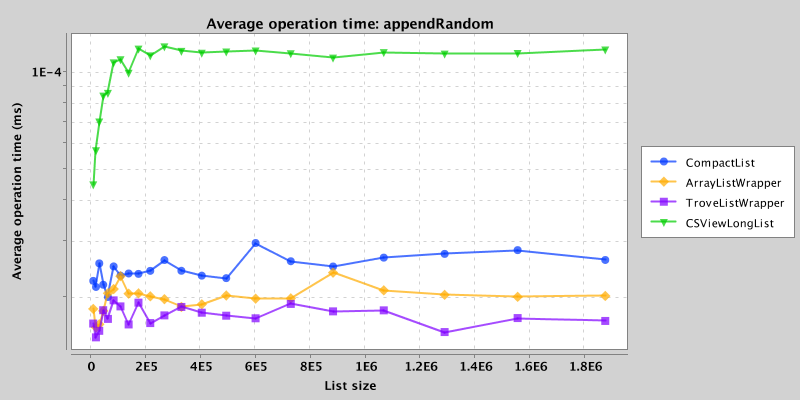
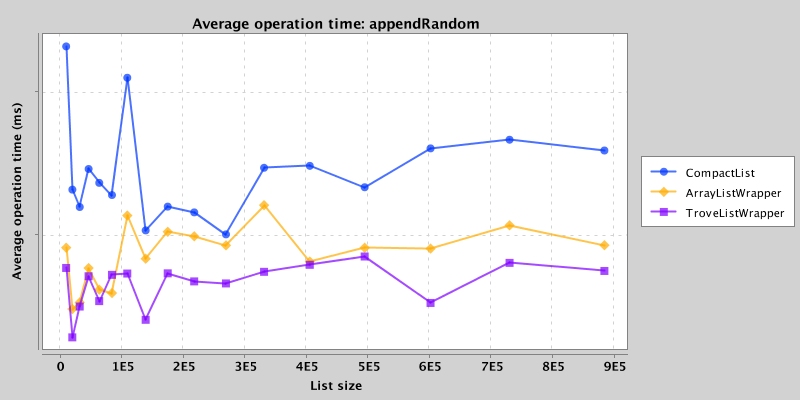
Disabled linear prediction strategy due to errors and performance

diff --git a/src/main/java/net/kothar/compactlist/internal/Node.java b/src/main/java/net/kothar/compactlist/internal/Node.java
@@ -2,21 +2,20 @@ package net.kothar.compactlist.internal;
 
 import java.io.Serializable;
 import java.util.ArrayList;
-import java.util.Arrays;
 import java.util.Collections;
 import java.util.Comparator;
 import java.util.Iterator;
 import java.util.List;
 import java.util.function.Consumer;
-import java.util.stream.Collectors;
+
+import org.slf4j.Logger;
+import org.slf4j.LoggerFactory;
 
 import net.kothar.compactlist.LongList;
 import net.kothar.compactlist.internal.compaction.CompactionEvaluator;
 import net.kothar.compactlist.internal.compaction.CompactionStrategy;
-import net.kothar.compactlist.internal.compaction.LinearPredictionCompactionStrategy;
 import net.kothar.compactlist.internal.compaction.OffsetCompactionStrategy;
 import net.kothar.compactlist.internal.compaction.StorageAnalysis;
-import net.kothar.compactlist.internal.storage.AbstractStore;
 import net.kothar.compactlist.internal.storage.ByteArrayStore;
 import net.kothar.compactlist.internal.storage.ConstantStore;
 import net.kothar.compactlist.internal.storage.IntArrayStore;
@@ -25,6 +24,8 @@ import net.kothar.compactlist.internal.storage.ShortArrayStore;
 import net.kothar.compactlist.internal.storage.Store;
 
 public class Node implements Iterable<Long>, LongList, Serializable {
+
+	private static final Logger log = LoggerFactory.getLogger(Node.class);
 
 	private static final long serialVersionUID = 3105932349913959938L;
 
@@ -43,7 +44,7 @@ public class Node implements Iterable<Long>, LongList, Serializable {
 		lastCompaction;
 
 	public Node() {
-		this(new LongArrayStore());
+		this(new ShortArrayStore(new OffsetCompactionStrategy(0)));
 	}
 
 	public Node(Store elements) {
@@ -128,6 +129,7 @@ public class Node implements Iterable<Long>, LongList, Serializable {
 			lastWrite = ++operation;
 
 			// Replace with non-compact representation if out of range
+			// TODO perform storage analysis
 			if (!elements.inRange(index, element, index < size)) {
 				LongArrayStore newElements = new LongArrayStore(size + 1);
 				newElements.copy(elements, 0, 0, index);
@@ -192,12 +194,15 @@ public class Node implements Iterable<Long>, LongList, Serializable {
 	}
 
 	protected void split(int pivot) {
+
+		log.trace("split {}: {}", pivot, this);
+
 		if (isLeaf()) {
 			if (pivot == size) {
 				left = new Node(elements);
-				right = new Node(new LongArrayStore());
+				right = new Node(new ShortArrayStore(new OffsetCompactionStrategy(elements.getLong(pivot - 1))));
 			} else if (pivot == 0) {
-				left = new Node(new LongArrayStore());
+				left = new Node(new ShortArrayStore(new OffsetCompactionStrategy(elements.getLong(0))));
 				right = new Node(elements);
 			} else {
 				Store[] splitElements = elements.split(pivot);
@@ -220,6 +225,10 @@ public class Node implements Iterable<Long>, LongList, Serializable {
 	}
 
 	protected void merge() {
+
+		log.trace("merge: {}", this);
+
+		// TODO analyse elements to determine range required
 		LongArrayStore target = new LongArrayStore(size);
 
 		left.mergeElements(target, 0);
@@ -290,6 +299,8 @@ public class Node implements Iterable<Long>, LongList, Serializable {
 
 	public void compact() {
 
+		log.trace("compact: {}", this);
+
 		if (!isLeaf()) {
 			if (size <= TARGET_LEAF_SIZE) {
 				merge();
@@ -315,12 +326,9 @@ public class Node implements Iterable<Long>, LongList, Serializable {
 			// Analyse the values in this node
 			StorageAnalysis analysis = new StorageAnalysis(elements);
 
-			CompactionStrategy[] strategies = new CompactionStrategy[] {
-				new OffsetCompactionStrategy(analysis),
-				new LinearPredictionCompactionStrategy(analysis)
-			};
-			List<CompactionEvaluator> evaluators = Arrays.stream(strategies).map(CompactionEvaluator::new)
-				.collect(Collectors.toList());
+			List<CompactionEvaluator> evaluators = new ArrayList<>();
+			evaluators.add(new CompactionEvaluator(new OffsetCompactionStrategy(analysis)));
+//			evaluators.add(new CompactionEvaluator(new LinearPredictionCompactionStrategy(analysis)));
 
 			// Evaluate available compaction strategies
 			for (int i = 0; i < size && !evaluators.isEmpty(); i++) {
@@ -335,8 +343,7 @@ public class Node implements Iterable<Long>, LongList, Serializable {
 
 			if (evaluators.isEmpty()) {
 				// We may still be able to truncate the storage
-				if (elements instanceof LongArrayStore
-					&& elements.capacity() > elements.size() + AbstractStore.ALLOCATION_BUFFER) {
+				if (elements instanceof LongArrayStore && elements.capacity() > TARGET_LEAF_SIZE) {
 					elements = new LongArrayStore(elements);
 				}
 				return;
@@ -354,14 +361,16 @@ public class Node implements Iterable<Long>, LongList, Serializable {
 
 			// Choose an appropriate storage strategy for the range of compact values
 			// observed
-			if (range == 0) {
-				elements = new ConstantStore(strategy, elements);
-			} else if (range < 1L << 8) {
-				elements = new ByteArrayStore(strategy, elements);
-			} else if (range < 1L << 16) {
-				elements = new ShortArrayStore(strategy, elements);
-			} else if (range < 1L << 32) {
-				elements = new IntArrayStore(strategy, elements);
+			if (range > 0) {
+				if (range == 0) {
+					elements = new ConstantStore(strategy, elements);
+				} else if (range < 1L << 8) {
+					elements = new ByteArrayStore(strategy, elements);
+				} else if (range < 1L << 16) {
+					elements = new ShortArrayStore(strategy, elements);
+				} else if (range < 1L << 32) {
+					elements = new IntArrayStore(strategy, elements);
+				}
 			}
 		} finally {
 			dirty = false;

diff --git a/src/test/java/net/kothar/compactlist/internal/NodeTest.java b/src/test/java/net/kothar/compactlist/internal/NodeTest.java
@@ -171,7 +171,7 @@ public class NodeTest {
 
 		String lastOp = "";
 
-		for (int i = 0; i < 100_000; i++) {
+		for (int i = 0; i < 1_000; i++) {
 			long v;
 			int index;
 			Long a;
@@ -203,7 +203,7 @@ public class NodeTest {
 				v = r.nextLong();
 				list.add(v);
 				compactList.add(v);
-				lastOp = "append " + v;
+				lastOp = "append " + " at " + (list.size() - 1);
 				break;
 			case 3:
 				// Remove
@@ -227,14 +227,15 @@ public class NodeTest {
 				}
 			}
 
-			System.out.println("Iteration " + i + ": " + lastOp);
-			System.out.println(list);
-			System.out.println(compactList);
-			System.out.println();
-
 			assertEquals(list.size(), compactList.size());
 			for (int j = 0; j < list.size(); j++) {
-				assertEquals("Index " + j, (long) list.get(j), compactList.getLong(j));
+				long listVal = list.get(j);
+				long clistVal = compactList.getLong(j);
+				if (listVal != clistVal) {
+					System.out.println("Iteration " + i + ": " + lastOp);
+					System.out.println(" " + j + ": " + listVal + " != " + clistVal);
+				}
+				assertEquals("Index " + j, listVal, clistVal);
 			}
 
 			assertTrue("Iteration " + i + ": " + lastOp, list.equals(compactList));

diff --git a/src/test/java/net/kothar/compactlist/CompactListBenchmark.java b/src/test/java/net/kothar/compactlist/CompactListBenchmark.java
@@ -49,11 +49,11 @@ public class CompactListBenchmark {
 		System.out.println("Test\t\tCount\t\tClass\t\t\tElapsed");
 
 		Map<String, Test> tests = new LinkedHashMap<>();
-		tests.put("remove", removeRandom);
 		tests.put("append", appendSequential);
 		tests.put("appendRandom", appendRandom);
 		tests.put("insert", insertSequential);
 		tests.put("set", setSeq);
+		tests.put("remove", removeRandom);
 
 		for (Entry<String, Test> testEntry : tests.entrySet()) {
 
@@ -63,8 +63,10 @@ public class CompactListBenchmark {
 			for (Class<? extends LongList> impl : Arrays.asList(
 				CompactList.class,
 				ArrayListWrapper.class,
-				TroveListWrapper.class,
-				CSViewLongList.class)) {
+				TroveListWrapper.class/*
+										 * , CSViewLongList.class
+										 */
+			)) {
 
 				TreeMap<Integer, Double> classData = new TreeMap<>();
 				testData.put(impl, classData);

diff --git a/src/main/java/net/kothar/compactlist/internal/storage/LongArrayStore.java b/src/main/java/net/kothar/compactlist/internal/storage/LongArrayStore.java
@@ -37,7 +37,8 @@ public class LongArrayStore extends ArrayStore<long[]> {
 		super(size, size + ALLOCATION_BUFFER);
 
 		if (elements instanceof LongArrayStore) {
-			System.arraycopy(((LongArrayStore) elements).store, offset, store, 0, size);
+			LongArrayStore longStore = (LongArrayStore) elements;
+			System.arraycopy(longStore.store, offset + longStore.offset, store, 0, size);
 		} else {
 			for (int i = 0; i < size; i++) {
 				setElement(i, elements.get(i + offset));
